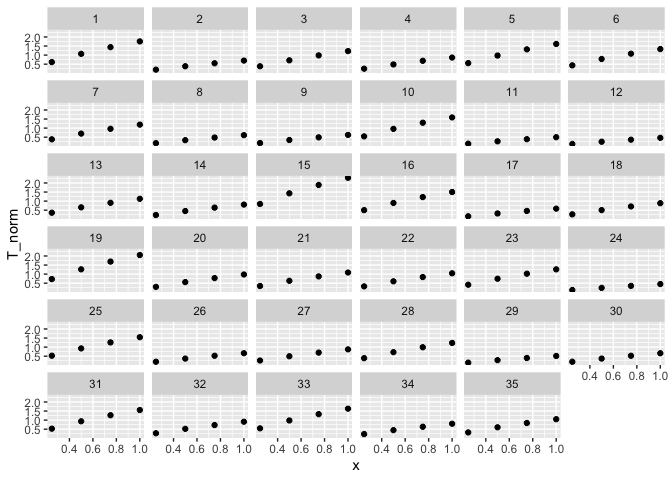
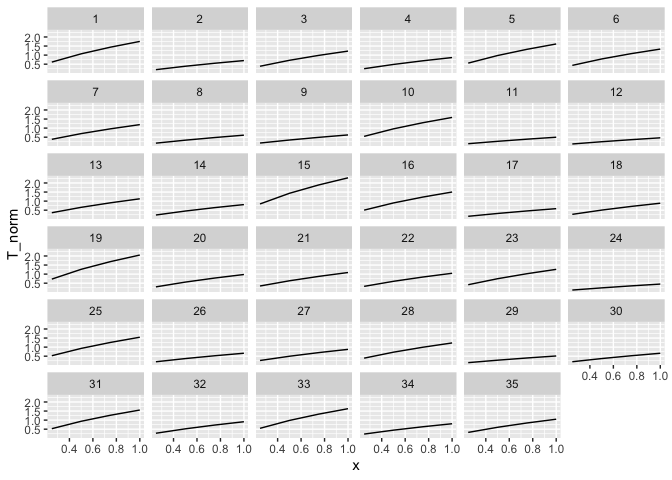
Fix challenge 11

diff --git a/challenges/c11-psaap-assignment.md b/challenges/c11-psaap-assignment.md
@@ -259,8 +259,7 @@ glimpse(df_psaap)
 **Observations**:
 
 - There are a lot of variables.
-- There are more variables then results for each category(140 variables
-  with 22 results)
+- There are 22 variables and 140 results.
 
 The important variables in this dataset are:
 
@@ -305,7 +304,7 @@ of fluid, for different experimental settings (e.g. different dimensions
 df_psaap %>% 
   ggplot(aes(x = x, y = T_norm)) + 
   facet_wrap(~idx) +
-  geom_point()
+  geom_line()
 ```
 
 ![](c11-psaap-assignment_files/figure-gfm/q2-task-1.png)<!-- -->
@@ -313,7 +312,8 @@ df_psaap %>%
 ``` r
 df_psaap %>% 
   ggplot(aes(x = x, y = T_norm, color = factor(idx))) +
-  geom_point() 
+  geom_line() + 
+  geom_point()
 ```
 
 ![](c11-psaap-assignment_files/figure-gfm/q2-task-2.png)<!-- -->
@@ -482,24 +482,17 @@ only considers the channel location and ignores all other inputs. We’ll
 also use the helper function `add_uncertainties()` (defined in the
 `setup` chunk above) to add approximate CI and PI to the linear model.
 
-\`\`\`{## NOTE: No need to edit this chunk} fit_simple \<- df_train %\>%
-lm(data = ., formula = T_norm \~ x)
+``` r
+fit_simple <-
+  df_train %>%
+  lm(data = ., formula = T_norm ~ x)
 
-df_intervals \<- df_train %\>% add_uncertainties(fit_simple, interval =
-“confidence”, prefix = “ci”) %\>% add_uncertainties(fit_simple, interval
-= “prediction”, prefix = “pi”) df_intervals
-
-
-    ```r
-    fit_simple <-
-      df_train %>%
-      lm(data = ., formula = T_norm ~ x)
-
-    df_intervals <-
-      df_train %>%
-      add_uncertainties(fit_simple, interval = "confidence", prefix = "ci") %>%
-      add_uncertainties(fit_simple, interval = "prediction", prefix = "pi")
-    df_intervals
+df_intervals <-
+  df_train %>%
+  add_uncertainties(fit_simple, interval = "confidence", prefix = "ci") %>%
+  add_uncertainties(fit_simple, interval = "prediction", prefix = "pi")
+df_intervals
+```
 
     ## # A tibble: 80 × 28
     ##        x   idx     L      W   U_0    N_p    k_f   T_f rho_f    mu_f  lam_f  C_fp
@@ -791,8 +784,16 @@ bind_rows(
     those results.
 - Are there any other recommendations you would provide?
   - Depending on research and more analysis, I think it’s important to
-    consider that factors they included and left out. This could lead to
-    a new model that can have different predictions.
+    consider that factors to included in a model. This could lead to a
+    new model which could have different predictions.
+  - For example, you could follow a procedure where you test each
+    variable and see which variables help make the model more accurate.
+    After accumulating a large and complicated model, you could then
+    test each variable by removing and understanding the impact each
+    variable has. After removing variables that have low impact, you
+    could create a new model. In Question 4, I followed this model and
+    used the variables x, W, U_0, d_p and rho_p which are different from
+    the current model and can produce different T_norm intervals.
 
 *Bonus*: One way you could take this analysis further is to recommend
 which other variables the design team should tightly control. You could
